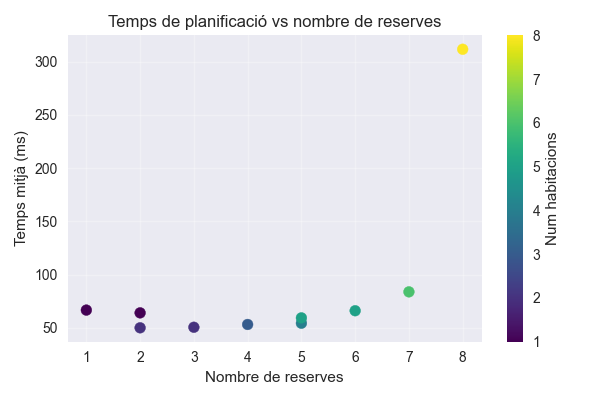
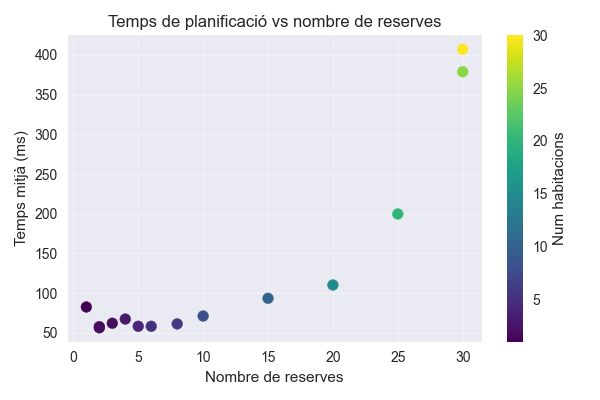
ext3

diff --git a/informe.md b/informe.md
@@ -884,61 +884,7 @@ L'extensió 3 es presenta com una evolució de l'extensió 1. Com en aquesta úl
 
 ### 3.3.1 Domini
 
-El domini d'aquesta extensió és gairebé idèntic al de l'extensió 1:
-
-```pddl
-(define (domain hotel-extensio3)
-  (:requirements :typing :negative-preconditions :adl :fluents)
-  (:types
-    reserva habitacio dia
-  )
-
-  (:predicates 
-    (dies-reserva ?r - reserva ?d - dia)
-    (ocupada ?h - habitacio ?d - dia)
-    (processada ?r - reserva) ; per saber si ja hem processat la reserva
-  )
-
-  (:functions
-    (capacitat ?h - habitacio) 
-    (persones ?r - reserva)   
-    (total-reserves-descartades)
-    (total-places-descartades)        
-  )
-
-  ;; assigna i incrementa la mètrica
-  (:action assignar-habitacio
-      :parameters (
-        ?r - reserva 
-        ?h - habitacio
-      )
-      :precondition (and
-        (not (processada ?r))          ;; només si encara no l'hem tractat
-        (>= (capacitat ?h) (persones ?r)) ; control de capacitat de les habitacions
-        (not (exists (?d - dia) 
-             (and (dies-reserva ?r ?d) (ocupada ?h ?d))))
-      )
-      :effect (and
-        (processada ?r)                ;; marquem com processada
-        (forall (?d - dia) 
-          (when (dies-reserva ?r ?d) (ocupada ?h ?d)))
-        (increase (total-places-descartades)
-        (- (capacitat ?h) (persones ?r)))
-      )
-  )
-
-  (:action descartar-reserva
-      :parameters (?r - reserva)
-      :precondition (not (processada ?r))
-      :effect (and 
-        (processada ?r)
-        (increase (total-reserves-descartades) 1) ;; suemem 1 al total de descartades
-      )
-  )
-)
-```
-
-Com es pot observar, les principals diferències es troben en les funcions numèriques i en la mètrica d'optimització:
+El domini d'aquesta extensió és gairebé idèntic al de l'extensió 1, les principals diferències es troben en les funcions numèriques i en la mètrica d'optimització:
 
 - Hem mantingut la funció `total-reserves-descartades`, que ja s'utilitzava a l'extensió 1 per comptabilitzar les reserves que no es podien assignar.
 - Hem afegit una nova funció, `total-places-descartades`, que ens permet mesurar el nombre de places desaprofitades quan una reserva s'assigna a una habitació més gran del necessari.
@@ -952,7 +898,6 @@ La modificació clau es troba dins de l'acció `assignar-habitacio`:
 ```
 
 Cada vegada que assignem una reserva a una habitació, incrementem `total-places-descartades` amb la diferència entre la capacitat de l’habitació i el nombre de persones de la reserva. D’aquesta manera, es fa un seguiment exacte de les places buides que queden en totes les habitacions.
-
 La resta del domini, incloses les accions i predicats, es manté igual que en l’extensió 1. Això permet preservar la lògica d’assignació sense solapaments mentre afegim la nova preocupació d’optimització del desperdici de places.
 
 ### 3.3.2 Problemes
@@ -1008,9 +953,45 @@ step    0: ASSIGNAR-HABITACIO R1 H1
 ```
 Amb això podem arribar a una conclusió clara. Tot i que no podem afirmar que existeix un únic pes òptim per a tots els problemes, els experiments permeten extreure una conclusió pràctica: un pes elevat com 100 sembla suficient per assegurar que el planificador prioritzi sempre l’assignació de reserves abans de minimitzar el desaprofitament en instàncies típiques del domini. En el nostre exemple inicial, aquest pes és clarament suficient per imposar la jerarquia d’objectius i obtenir la solució desitjada.
 
-A més, en escenaris més realistes —amb habitacions de capacitat ajustada, com solen trobar-se en hotels reals— el mateix pes de 100 continua generant solucions correctes, com hem vist en l’experiment amb habitacions més petites. Això indica que un pes de 100 pot funcionar com a referència robusta en molts casos pràctics, tot i que no garanteix un comportament perfecte en instàncies extremes amb habitacions molt grans o reserves molt petites, on podria caldre ajustar-lo.
+A més, en escenaris més realistes, amb habitacions de capacitat ajustada, com solen trobar-se en hotels reals, el mateix pes de 100 continua generant solucions correctes, com hem vist en l’experiment amb habitacions més petites. Això indica que un pes de 100 pot funcionar com a referència robusta en molts casos pràctics, tot i que no garanteix un comportament perfecte en instàncies extremes amb habitacions molt grans o reserves molt petites, on podria caldre ajustar-lo.
 
 #### 3.3.2.2 Problema 2
+En aquest experiment analitzem el comportament del planificador davant problemes de mida creixent, amb l’objectiu d’estudiar com afecta l’increment de la complexitat del problema al temps d’execució. L’interès principal és determinar fins a quin punt el nombre de reserves, habitacions i dies influeix en el rendiment del planificador i en la seva capacitat per trobar un pla en temps raonable.
+Per tal de dur a terme l’experiment, hem utilitzat els scripts `generador3.py` i `executar_exp3.py`, que permeten generar automàticament un conjunt de problemes de dimensions diverses i executar-los amb el domini corresponent. Tots els resultats s’emmagatzemen en un fitxer en format CSV, que posteriorment s’utilitza per analitzar les dades i extreure conclusions.
+Els problemes generats segueixen el conjunt de configuracions següent:
+```bash
+CONFIGURACIONS = [
+    (1, 1, 1),    
+    (2, 1, 1),    
+    (2, 2, 2),    
+    (3, 2, 3),    
+    (4, 3, 4),   
+    (5, 4, 5),    
+    (6, 5, 6),    
+    (8, 6, 7),  
+    (10, 8, 8),  
+    (15, 10, 8),  
+    (20, 15, 9), 
+    (25, 20, 10), 
+    (30, 25, 10), 
+    (30, 30, 10), 
+]
+```
+On el primer número correspon al número de reserves, el segon al número d'habitacions i el tercer al número de dies.
+A partir d’aquest conjunt de problemes, obtenim els resultats següents:
+
+<div class="image-row">
+  <div class="image-column">
+    <img src="./figures/ext3/temps_vs_reserves.png" alt="Gràfic de temps d'execució en l'extensió 2 - problema 2">
+    <div class="caption">Figura 12: Temps d'execució en funció del nombre de reserves i habitacions</div>
+  </div>
+</div>
+
+Aquest gràfic mostra el temps mitjà de planificació en funció del nombre de reserves, amb el color representant el nombre d’habitacions, i deixa veure una estructura clarament escalonada. 
+Per valors petits de reserves (1–10) el temps es manté relativament estable, en una franja aproximada de 55–80 ms, fins i tot quan augmenta lleugerament el nombre d’habitacions (colors més clars), cosa que indica que en aquest rang la combinatòria d’assignacions és manejable i l’heurística de Metric‑FF troba plans bons sense explorar gaire l’espai d’estats. 
+A partir d’aquí, cada salt significatiu en el nombre de reserves va acompanyat d’un increment clar del temps: amb 15 reserves el temps ja s’enfila cap als 90–100 ms, amb 20 reserves puja per sobre dels 100 ms i amb 25 reserves arriba prop dels 200 ms. 
+El punt més extrem és a 30 reserves, on hi ha dos casos amb 25 i 30 habitacions (colors verd-clar/groc) que porten el temps de planificació fins als 380–410 ms; en aquestes configuracions, la combinació de moltes reserves, moltes habitacions i l’horitzó temporal fa explotar el nombre de possibles assignacions i solapaments, de manera que el planificador ha d’explorar moltíssimes més alternatives abans de trobar una solució òptima. 
+En termes d’anàlisi, el gràfic evidencia que el nombre de reserves és un paràmetre clau de dificultat i que, quan es combina amb un nombre alt d’habitacions, l’espai de cerca creix de forma fortament no lineal, produint increments de temps de diversos factors en comparació amb les instàncies petites.
 
 ## 3.4 Extensió 4
 
